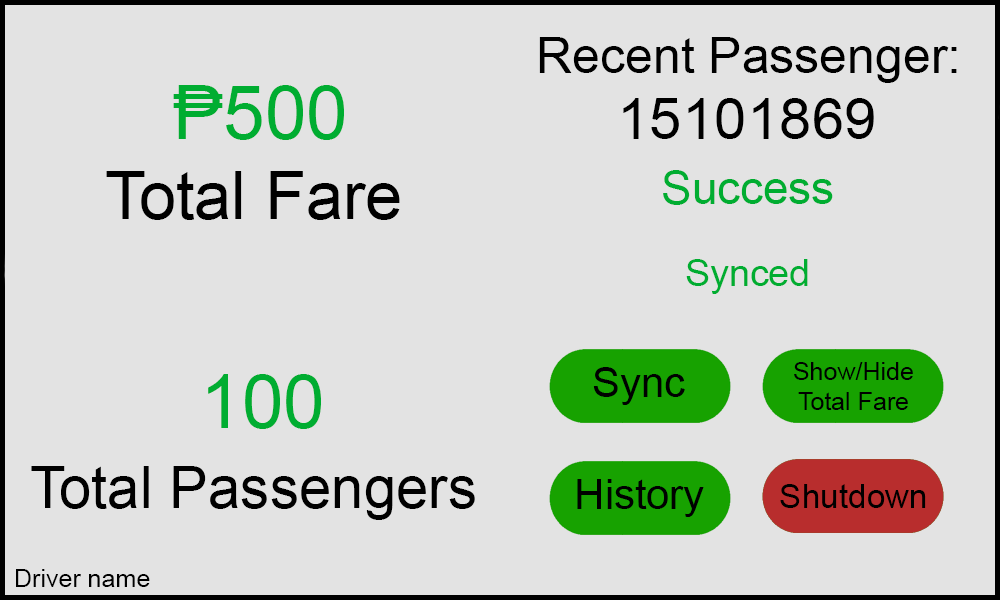
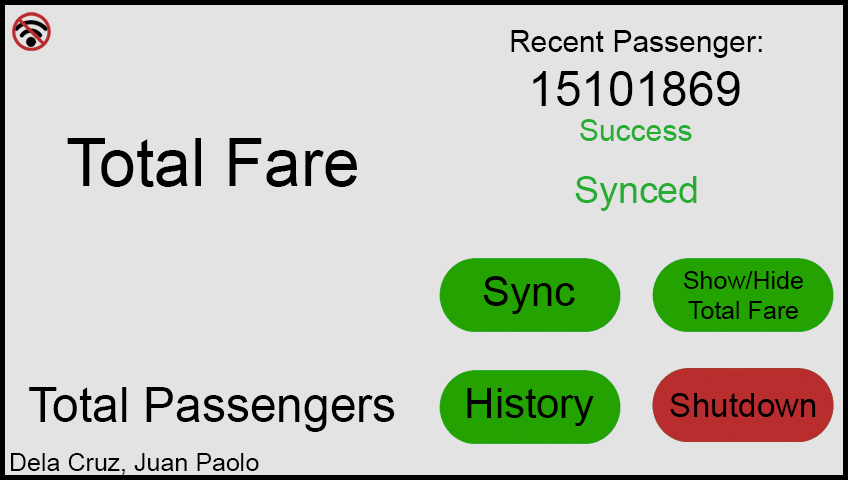
Resized Main UI to 848x480

diff --git a/mainUI.py b/mainUI.py
@@ -29,21 +29,21 @@ def mainUI(window):
     hist_frame.pack_forget()
     
     ####### MAIN UI BG through Pillow PIL ########
-    main_bg = Canvas(main_frame, bg="#e3e3e3", height=1000, width=600) 
-    main_bg_image = ImageTk.PhotoImage(Image.open("newdb.png")) # BG through Pillow PIL
+    main_bg = Canvas(main_frame, bg="#e3e3e3", height=480, width=848) 
+    main_bg_image = ImageTk.PhotoImage(Image.open("db.png")) # BG through Pillow PIL
     main_label = Label(main_frame, image=main_bg_image) 
     main_label.place(x=0, y=0, relwidth=1, relheight=1) 
     main_bg.pack()
 
     ###### MAIN UI LABELS ###########
-    main_totalfare = Label(main_frame, width="7", bd=0, bg="#e3e3e3", fg="#00ad31", font=("ArialUnicodeMS",50), text="₱500")
-    main_totalfare.place(x=125,y=72)
+    main_totalfare = Label(main_frame, width="7", bd=0, bg="#e3e3e3", fg="#00ad31", font=("ArialUnicodeMS",70), text="₱500")
+    main_totalfare.place(x=80,y=42)
 
-    main_totalpass = Label(main_frame, width="7", bd=0, bg="#e3e3e3", fg="#00ad31", font=("ArialUnicodeMS",50), text=shflag)
-    main_totalpass.place(x=125,y=372)
+    main_totalpass = Label(main_frame, width="7", bd=0, bg="#e3e3e3", fg="#00ad31", font=("ArialUnicodeMS",70), text="100")
+    main_totalpass.place(x=80,y=262)
 
     ####### HISTORY UI BG through Pillow PIL ########
-    hist_bg = Canvas(hist_frame, bg="#e3e3e3", height=1000, width=600) 
+    hist_bg = Canvas(hist_frame, bg="#e3e3e3", height=480, width=848) 
     hist_bg_image = ImageTk.PhotoImage(Image.open("hist_screen.png")) # BG through Pillow PIL
     hist_label = Label(hist_frame, image=hist_bg_image) 
     hist_label.place(x=0, y=0, relwidth=1, relheight=1) 
@@ -58,19 +58,19 @@ def mainUI(window):
 
     #### SYNC ####
     syB = Button (main_frame, image=sy_image, width=182, height=74, bd=0, bg="#e3e3e3", activebackground="#e3e3e3", command=sync)
-    syB.place(bordermode=OUTSIDE,x=550,y=349)
+    syB.place(bordermode=OUTSIDE,x=438,y=258)
 
     #### SHOW/HIDE ####
     showhideB = Button (main_frame, image=showhide_image, width=182, height=74, bd=0, bg="#e3e3e3", activebackground="#e3e3e3", command=lambda: showhide(main_totalfare,main_totalpass))
-    showhideB.place(bordermode=OUTSIDE,x=762,y=349)
+    showhideB.place(bordermode=OUTSIDE,x=650,y=258)
 
     #### HISTORY ####
     histB = Button (main_frame, image=hist_image, width=182, height=74, bd=0, bg="#e3e3e3", activebackground="#e3e3e3", command=lambda: [main_frame.pack_forget(),hist_frame.pack(expand=1,fill=BOTH)])
-    histB.place(bordermode=OUTSIDE,x=550,y=460)
+    histB.place(bordermode=OUTSIDE,x=438,y=370)
 
     #### SHUTDOWN ####
     shutdownB = Button (main_frame, image=sd_image, width=182, height=74, bd=0, bg="#e3e3e3", activebackground="#e3e3e3", command=window.destroy) 
-    shutdownB.place(bordermode=OUTSIDE,x=760,y=459)
+    shutdownB.place(bordermode=OUTSIDE,x=650,y=370)
 
     ###### BUTTONS FOR HISTORY UI #######
     ###### BUTTON IMAGES LOAD #######
@@ -95,7 +95,7 @@ def mainUI(window):
 if __name__ == "__main__":
     ##### WINDOW #####
     window = Tk()
-    window.geometry("1000x600") #Size for Window
+    window.geometry("848x480") #Size for Window
     # window.overrideredirect(1) #Remove window border
     window.resizable(False,False) #Prevent resize windows
     mainUI(window)
